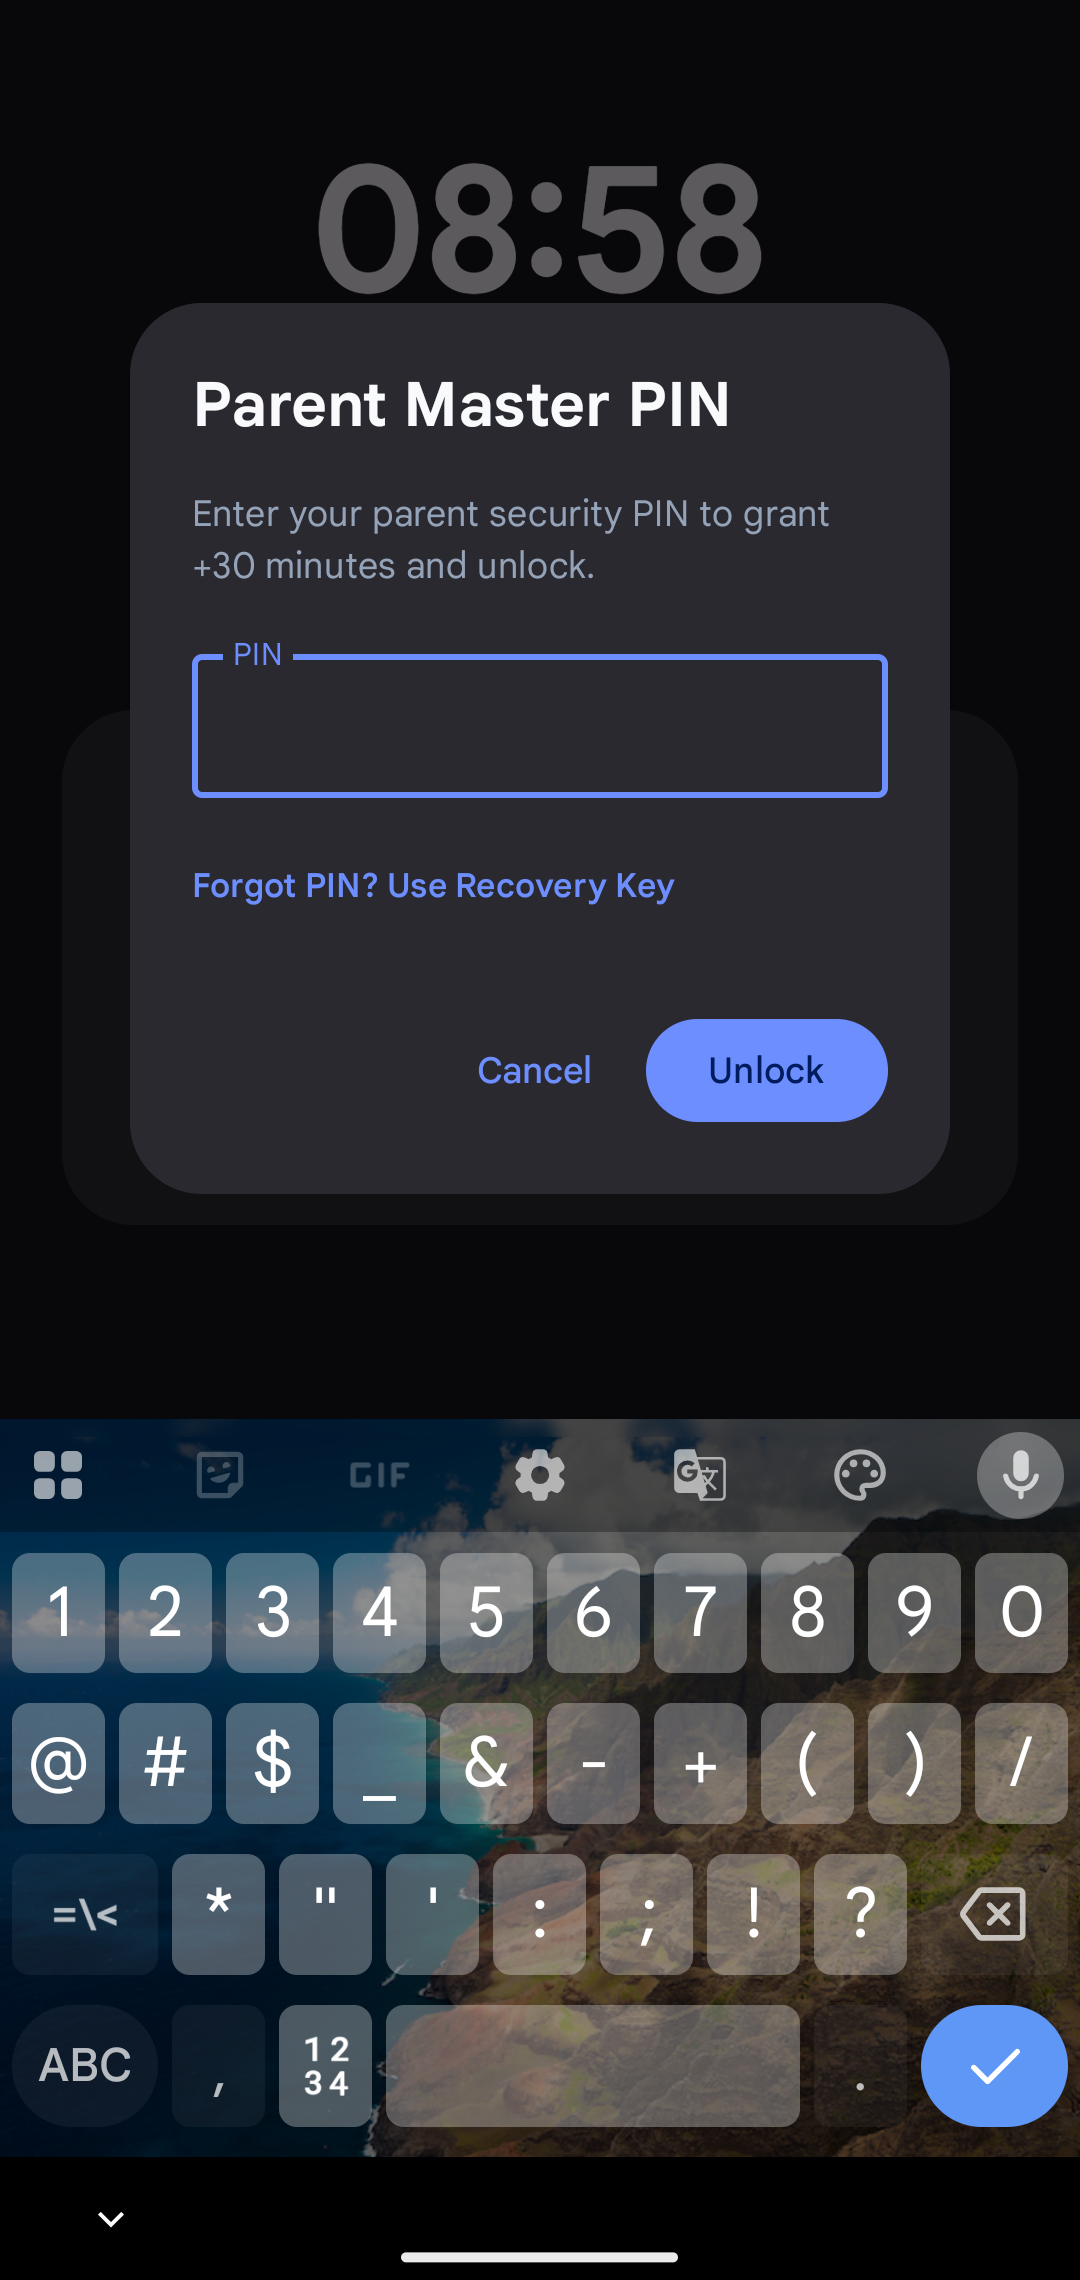
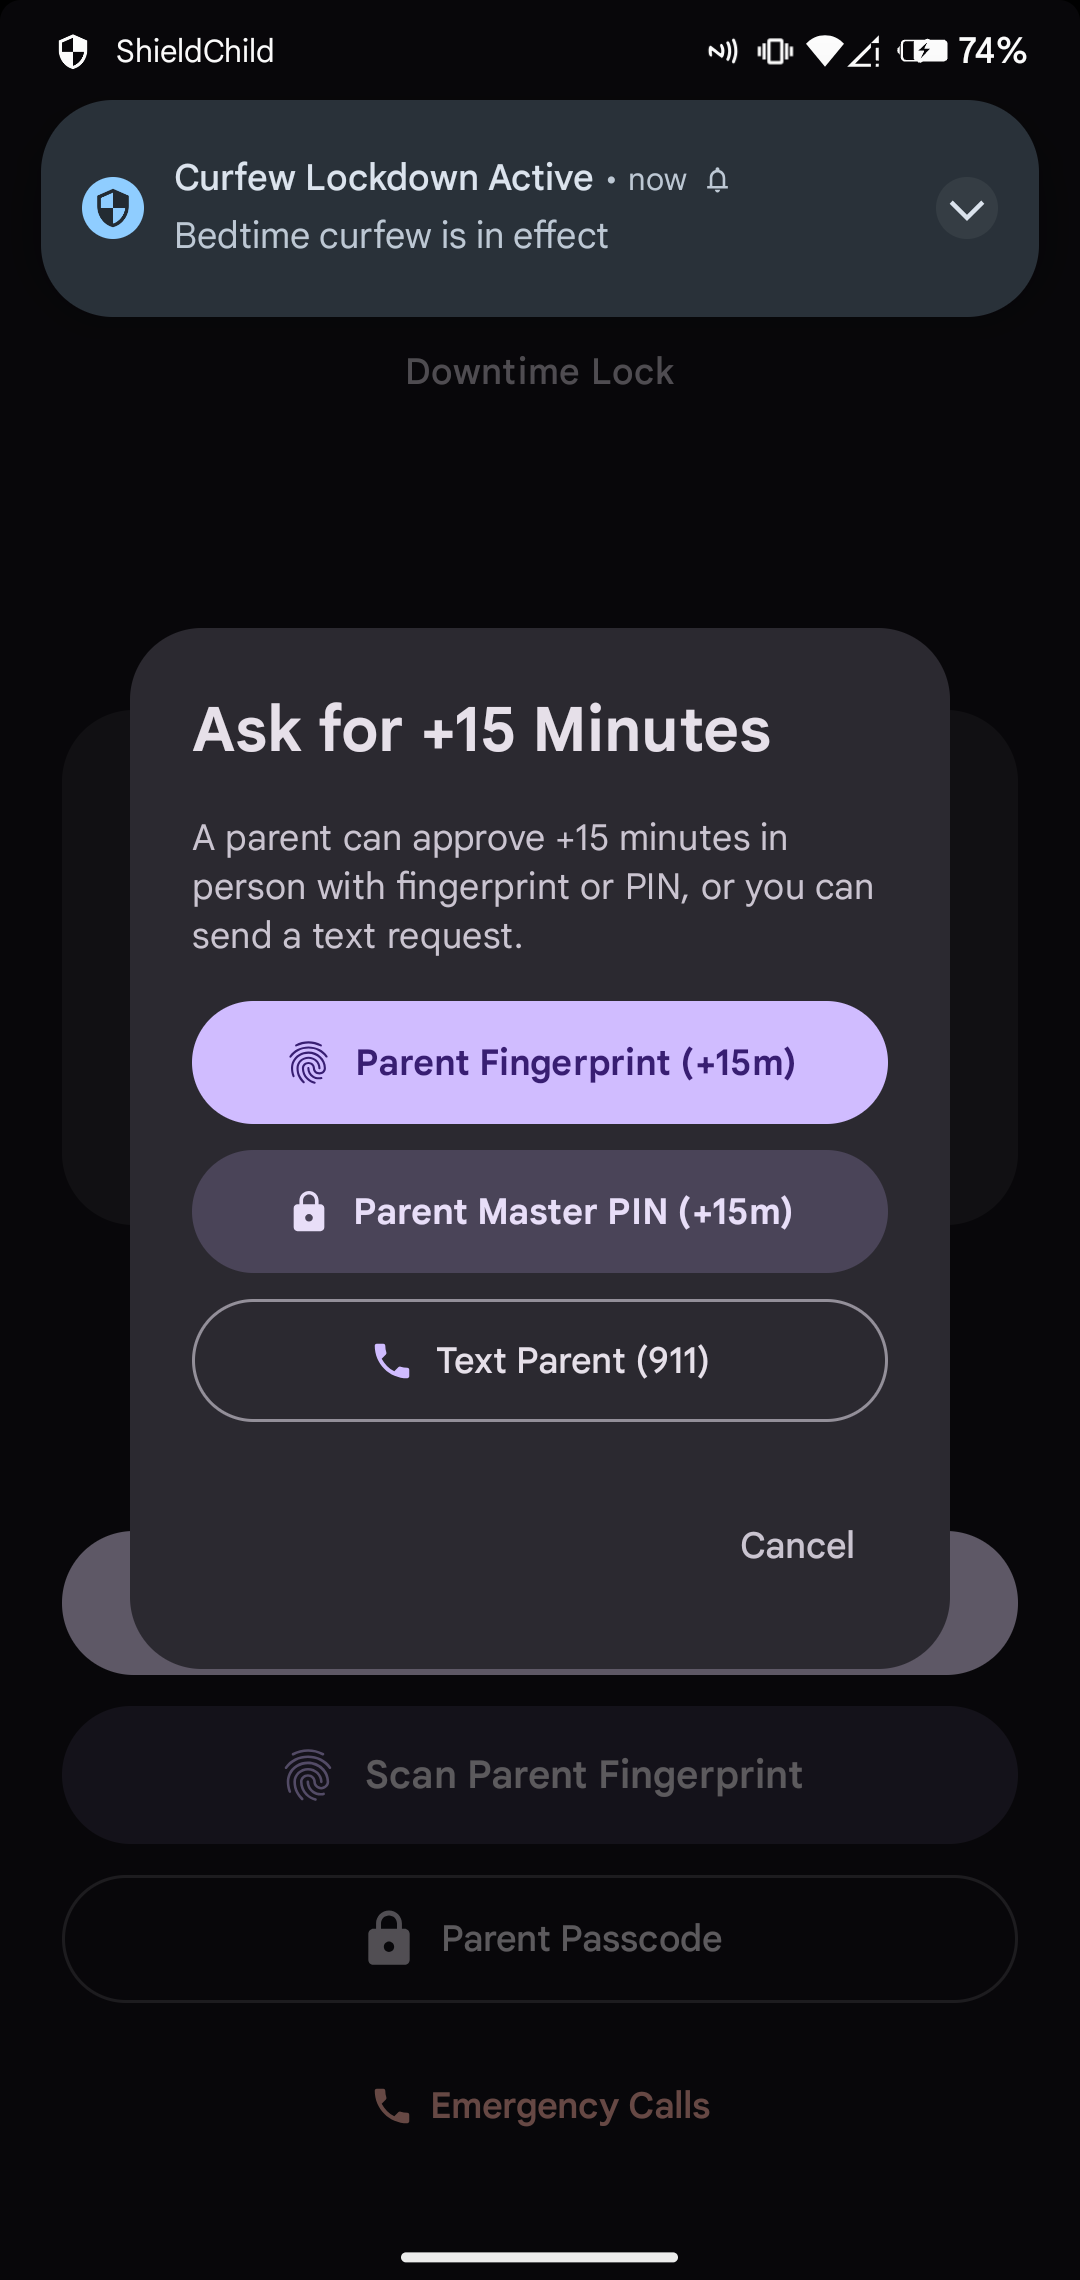
Replace mockups with authentic OnePlus 6 live device screenshots

diff --git a/docs/index.html b/docs/index.html
@@ -9,7 +9,7 @@
     <meta property="og:title" content="ShieldChild · On-Device Parental Controls & Screen Time Curfew" />
     <meta property="og:description" content="Parental controls kids can't outsmart. Bedtime curfew, app limits, instant freeze, and anti-uninstall protection. 100% on-device, zero tracking." />
     <meta property="og:type" content="website" />
-    <meta property="og:image" content="https://heyhadi.github.io/shieldchild/images/dashboard-hero.jpg" />
+    <meta property="og:image" content="https://heyhadi.github.io/shieldchild/images/dashboard-hero.png" />
     <link rel="icon" type="image/svg+xml" href="images/icon.svg" />
     <link rel="stylesheet" href="site.css" />
   </head>
@@ -40,9 +40,9 @@
             <p class="note">Open-source & free forever. Built with Jetpack Compose & Kotlin for Android 8.0 through Android 15+.</p>
           </div>
           <div class="phones" aria-label="App preview on Android">
-            <div class="phone"><img src="images/app-lock.jpg" width="640" height="1391" alt="Single App Lock overlay with progress ring" /></div>
-            <div class="phone"><img src="images/dashboard-hero.jpg" width="640" height="1391" alt="Parent Control Dashboard in Material You light theme" /></div>
-            <div class="phone"><img src="images/curfew-lock.jpg" width="640" height="1391" alt="Curfew Lockdown Bedtime Lock Screen" /></div>
+            <div class="phone"><img src="images/app-limits.png" width="640" height="1391" alt="ShieldChild Per-App Limits on OnePlus 6" /></div>
+            <div class="phone"><img src="images/dashboard-hero.png" width="640" height="1391" alt="ShieldChild Parent Dashboard Overview on OnePlus 6" /></div>
+            <div class="phone"><img src="images/curfew-lock.png" width="640" height="1391" alt="ShieldChild Curfew Lockdown Screen on OnePlus 6" /></div>
           </div>
         </div>
       </div>
@@ -123,23 +123,39 @@
       <section id="screens" style="background: var(--surface)">
         <div class="wrap">
           <h2>Clean, expressive Material You design.</h2>
-          <p class="muted">Crafted with modern Jetpack Compose adhering to Google's Material 3 design system.</p>
+          <p class="muted">Live OnePlus 6 hardware captures running ShieldChild with Material 3 dynamic color theming.</p>
           <div class="showcase">
             <figure>
-              <div class="phone"><img src="images/dashboard-hero.jpg" width="640" height="1391" loading="lazy" alt="Parent Dashboard Overview" /></div>
+              <div class="phone"><img src="images/dashboard-hero.png" width="640" height="1391" loading="lazy" alt="Parent Dashboard Overview" /></div>
               <figcaption><b>Parent Dashboard</b>Screen time progress ring, instant freeze toggle, and per-app usage sliders.</figcaption>
             </figure>
             <figure>
-              <div class="phone"><img src="images/curfew-lock.jpg" width="640" height="1391" loading="lazy" alt="Curfew Lockdown Screen" /></div>
+              <div class="phone"><img src="images/curfew-lock.png" width="640" height="1391" loading="lazy" alt="Curfew Lockdown Screen" /></div>
               <figcaption><b>Curfew Lockdown</b>Undismissible bedtime screen with emergency SOS and +15m request actions.</figcaption>
             </figure>
             <figure>
-              <div class="phone"><img src="images/app-lock.jpg" width="640" height="1391" loading="lazy" alt="Single App Lock Screen" /></div>
-              <figcaption><b>Single App Pause</b>Polite blur overlay when a single app's daily quota runs out.</figcaption>
+              <div class="phone"><img src="images/app-limits.png" width="640" height="1391" loading="lazy" alt="App Limits Management" /></div>
+              <figcaption><b>Per-App Limits</b>Custom daily minute caps and complete app blocking controls.</figcaption>
+            </figure>
+            <figure>
+              <div class="phone"><img src="images/curfew-settings.png" width="640" height="1391" loading="lazy" alt="Curfew Bedtime Schedule" /></div>
+              <figcaption><b>Bedtime Curfew</b>Overnight downtime schedule across midnight with free day selection.</figcaption>
             </figure>
             <figure>
               <div class="phone"><img src="images/ask-15m-dialog.png" width="640" height="1391" loading="lazy" alt="Ask for 15 More Mins Dialog" /></div>
               <figcaption><b>+15 Mins Approval</b>In-person fingerprint/PIN unlock or quick SMS dispatch to parent.</figcaption>
+            </figure>
+            <figure>
+              <div class="phone"><img src="images/security-tab.png" width="640" height="1391" loading="lazy" alt="Parent Security & Recovery" /></div>
+              <figcaption><b>Security & Recovery</b>Hardware biometric enclave, Master PIN, and offline 16-char recovery key.</figcaption>
+            </figure>
+            <figure>
+              <div class="phone"><img src="images/anti-tamper-settings.png" width="640" height="1391" loading="lazy" alt="Anti-Uninstall Armor in Settings" /></div>
+              <figcaption><b>Anti-Uninstall Armor</b>Active Device Administrator greys out OS Uninstall & Force Stop.</figcaption>
+            </figure>
+            <figure>
+              <div class="phone"><img src="images/recovery-dialog.png" width="640" height="1391" loading="lazy" alt="Emergency Recovery Key Dialog" /></div>
+              <figcaption><b>Offline PIN Reset</b>Zero internet fallback to reset parent passcode directly on lock screen.</figcaption>
             </figure>
           </div>
         </div>

diff --git a/README.md b/README.md
@@ -24,10 +24,12 @@
 </p>
 
 <p align="center">
-  <img src="docs/images/dashboard-hero.jpg" width="720" alt="ShieldChild Parent Dashboard, Curfew Lockdown, and App Pause screens">
+  <img src="docs/images/dashboard-hero.png" width="260" alt="ShieldChild Parent Dashboard on OnePlus 6">&nbsp;&nbsp;&nbsp;&nbsp;
+  <img src="docs/images/curfew-lock.png" width="260" alt="ShieldChild Curfew Lockdown on OnePlus 6">&nbsp;&nbsp;&nbsp;&nbsp;
+  <img src="docs/images/app-limits.png" width="260" alt="ShieldChild Per-App Limits on OnePlus 6">
 </p>
 
-<p align="center"><sub>Live showcase of ShieldChild: Material You Parent Control Dashboard, Curfew Downtime Lock, and Single App Quota Shield.</sub></p>
+<p align="center"><sub>Authentic OnePlus 6 live device captures: Material You Parent Dashboard, Curfew Lockdown Screen, and Per-App Quota Controls.</sub></p>
 
 *ShieldChild* is an open-source parental screen time and bedtime lockdown guardian designed with zero-bypass architecture. It runs 100% on the child's device without requiring cloud accounts, remote servers, or monthly subscriptions.
 
@@ -68,10 +70,13 @@ Children are remarkably creative at bypassing conventional screen time apps. Shi
    - *ShieldChild's Armor:* `CurfewLockActivity` uses `launchMode="singleInstance"`, `excludeFromRecents="true"`, overrides `onUserLeaveHint()`, handles `onWindowFocusChanged()`, and closes system dialogs with `Intent.ACTION_CLOSE_SYSTEM_DIALOGS`.
 
 <p align="center">
-  <img src="docs/images/curfew-lock.jpg" width="280" alt="Curfew Lockdown">&nbsp;&nbsp;&nbsp;&nbsp;
-  <img src="docs/images/ask-15m-dialog.png" width="280" alt="Ask for 15 More Mins Dialog">&nbsp;&nbsp;&nbsp;&nbsp;
-  <img src="docs/images/security-tab.png" width="280" alt="Security Tab with Device Admin">
+  <img src="docs/images/curfew-settings.png" width="220" alt="Curfew Bedtime Settings">&nbsp;&nbsp;
+  <img src="docs/images/ask-15m-dialog.png" width="220" alt="Ask for 15 More Mins Dialog">&nbsp;&nbsp;
+  <img src="docs/images/security-tab.png" width="220" alt="Security Tab with Device Admin">&nbsp;&nbsp;
+  <img src="docs/images/anti-tamper-settings.png" width="220" alt="Anti-Uninstall Armor in OS Settings">
 </p>
+
+<p align="center"><sub>Live OnePlus 6 captures (left to right): Bedtime Curfew Schedule, +15m Bonus Approval Dialog, Parent Security Tab with Recovery Key, and Android OS App Info with Uninstall disabled.</sub></p>
 
 ## How it works
 
